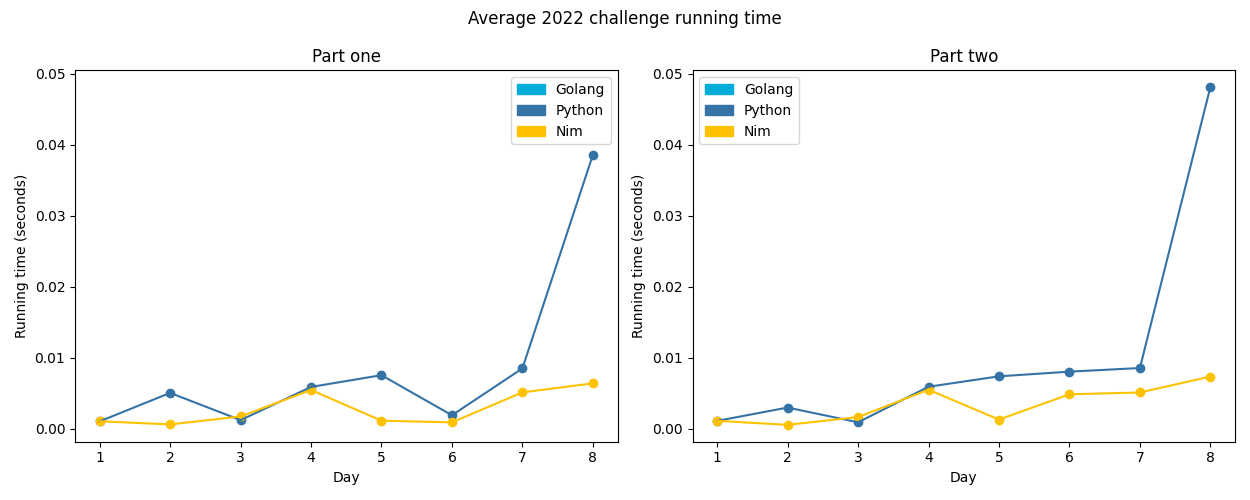
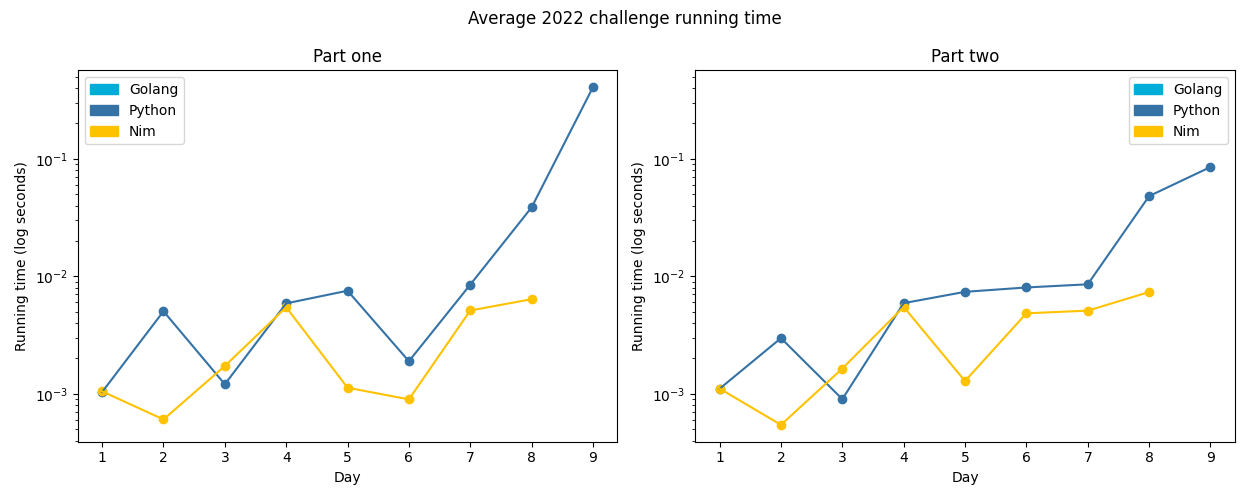
2022-09 py

diff --git a/challenges/2022/09-ropeBridge/py/__init__.py b/challenges/2022/09-ropeBridge/py/__init__.py
@@ -1,0 +1,105 @@
+from typing import *
+from aocpy import BaseChallenge
+
+Vector = Tuple[int, int]
+Instruction = Tuple[str, int]
+
+LEFT = "L"
+RIGHT = "R"
+UP = "U"
+DOWN = "D"
+
+OFFSETS = {
+    RIGHT: (1, 0),
+    LEFT: (-1, 0),
+    UP: (0, 1),
+    DOWN: (0, -1),
+}
+
+
+def parse(instr: str) -> List[Instruction]:
+    return [(x[0], int(x[2:])) for x in instr.strip().splitlines()]
+
+
+def apply_delta(coord: Vector, delta: Vector) -> Vector:
+    return (coord[0] + delta[0], coord[1] + delta[1])
+
+
+def vector_sum(a: Vector, b: Vector) -> Vector:
+    return (a[0] + b[0], a[1] + b[1])
+
+
+def vector_diff(a: Vector, b: Vector) -> Vector:
+    return (a[0] - b[0], a[1] - b[1])
+
+
+def get_next_move_delta(
+    current_position: Vector, preceeding_position: Vector
+) -> Optional[Vector]:
+    (dx, dy) = vector_diff(preceeding_position, current_position)
+
+    if -1 <= dx <= 1 and -1 <= dy <= 1:
+        return None
+
+    if dy > 0 and dx == 0:
+        # head upwards of tail
+        return OFFSETS[UP]
+    elif dy < 0 and dx == 0:
+        # head downwards of tail
+        return OFFSETS[DOWN]
+    elif dy == 0 and dx > 0:
+        # head to the right of tail
+        return OFFSETS[RIGHT]
+    elif dy == 0 and dx < 0:
+        # head to the left of tail
+        return OFFSETS[LEFT]
+    elif dy > 0 and dx > 0:
+        # head diagonally up-right of the tail
+        return vector_sum(OFFSETS[UP], OFFSETS[RIGHT])
+    elif dy > 0 and dx < 0:
+        # head diagonally up-left of the tail
+        return vector_sum(OFFSETS[UP], OFFSETS[LEFT])
+    elif dy < 0 and dx > 0:
+        # head diagonally down-right of the tail
+        return vector_sum(OFFSETS[DOWN], OFFSETS[RIGHT])
+    elif dy < 0 and dx < 0:
+        # head diagonally down-left of the tail
+        return vector_sum(OFFSETS[DOWN], OFFSETS[LEFT])
+
+    return None
+
+
+def run_with_length(instructions: List[Instruction], length: int) -> int:
+    tail_visited: List[Vector] = [(0, 0)]
+
+    positions: List[Vector] = [(0, 0) for _ in range(length)]
+
+    for (direction, magnitude) in instructions:
+        for _ in range(magnitude):
+            positions[0] = apply_delta(positions[0], OFFSETS[direction])
+
+            for pos_num in range(1, len(positions)):
+                delta = get_next_move_delta(positions[pos_num], positions[pos_num - 1])
+                if delta is None:
+                    break
+
+                positions[pos_num] = apply_delta(positions[pos_num], delta)
+
+            if delta is None:
+                # Python scope nastiness coming in useful for once
+                continue
+
+            if positions[-1] not in tail_visited:
+                tail_visited.append(positions[-1])
+
+    return len(tail_visited)
+
+
+class Challenge(BaseChallenge):
+    @staticmethod
+    def one(instr: str) -> int:
+        return run_with_length(parse(instr), 2)
+
+    @staticmethod
+    def two(instr: str) -> int:
+        return run_with_length(parse(instr), 10)

diff --git a/challenges/2022/README.md b/challenges/2022/README.md
@@ -22,4 +22,5 @@ Solutions to the [2022 Advent of Code](https://adventofcode.com/2022).
 | 06 - Tuning Trouble                 | ★ ★                | [Python](06-tuningTrouble/py), [Nim](06-tuningTrouble/nim) | This is the first year I've not repeatedly forgotten about the existence of sets, and it's coming in quite handy. |
 | 07 - No Space Left On Device        | ★ ★                | [Python](07-noSpaceLeftOnDevice/py) | Turns out that fake file systems are prone to very subtle and infuriating bugs. |
 | 08 - Treetop Tree House             | ★ ★                | [Python](08-treetopTreeHouse/py) | Magical coordinate dictionary tuple things do be magical. |
+| 09 - Rope Bridge                    | ★ ★                | [Python](09-ropeBridge/py) | Does this count as this year's first cellular automata? |
 

diff --git a/challenges/2022/09-ropeBridge/README.md b/challenges/2022/09-ropeBridge/README.md
@@ -1,0 +1,1 @@
+# [Day 9: Rope Bridge](https://adventofcode.com/2022/day/9)
